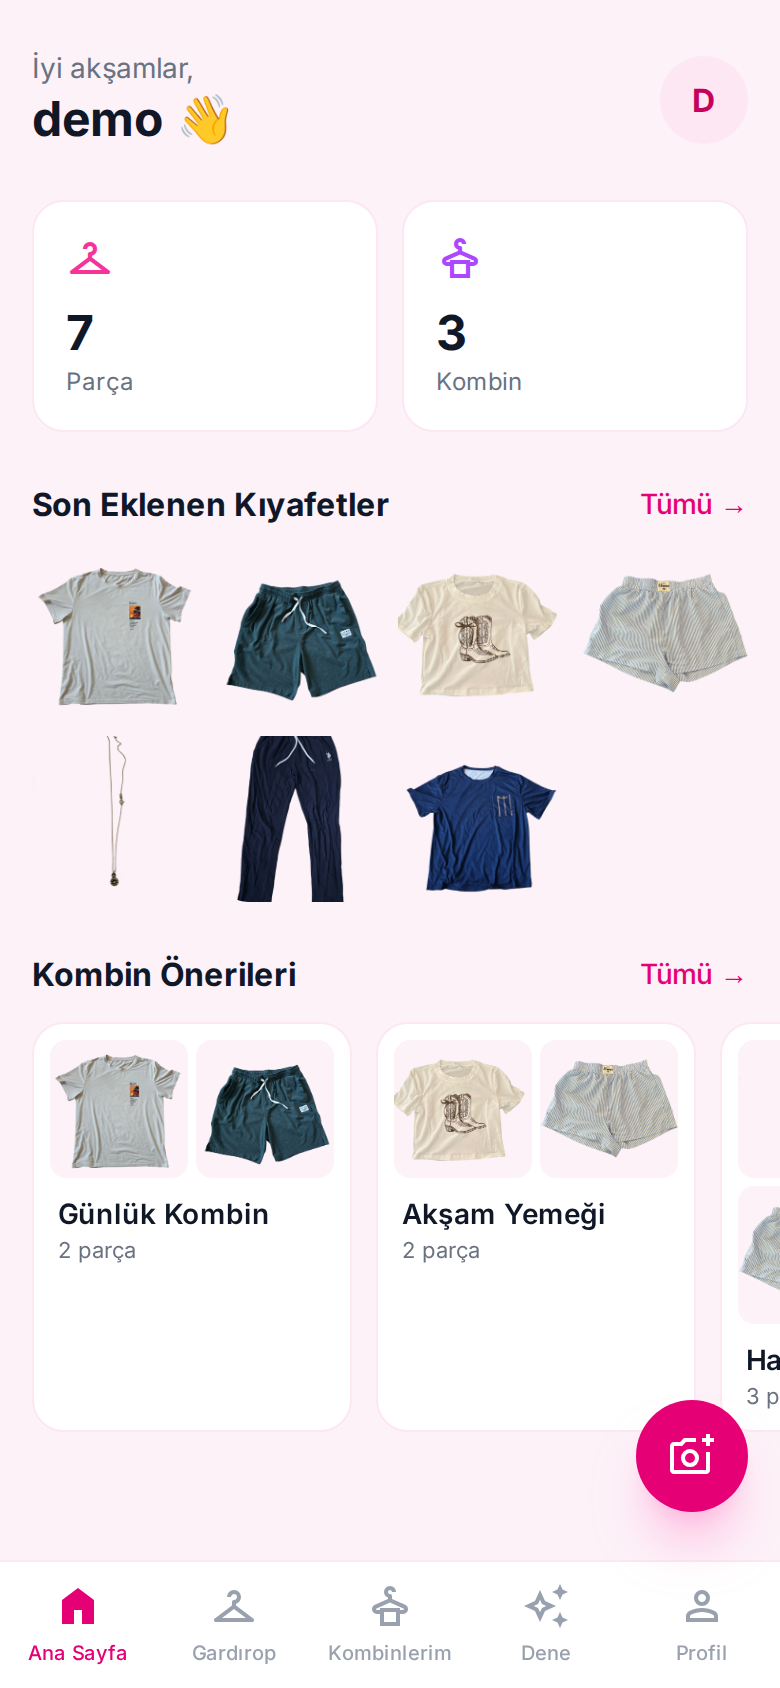
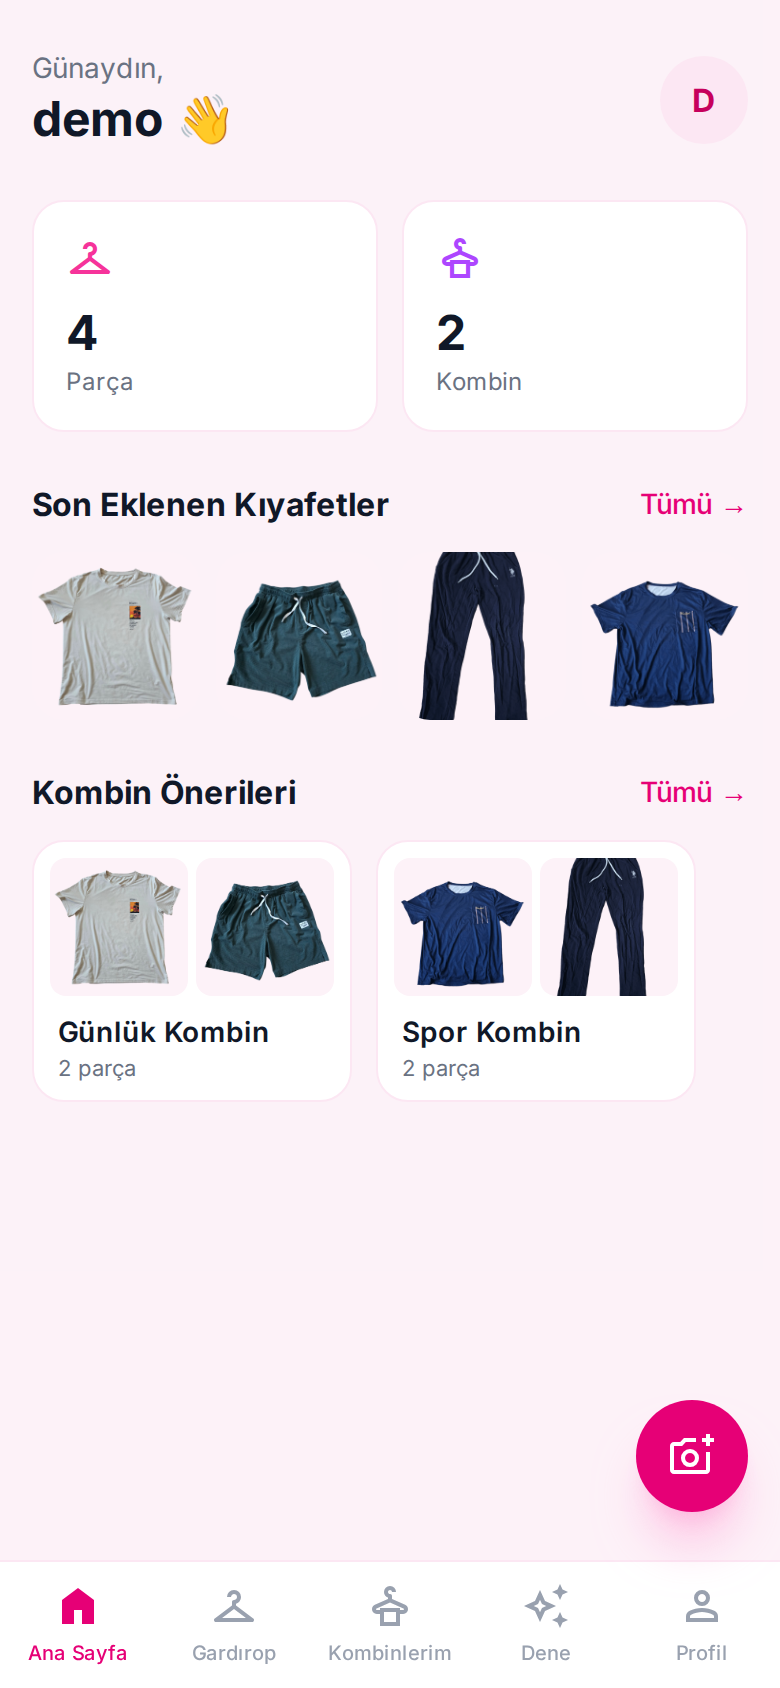
BettysWardrobe: switch demo visuals to the male wardrobe (owner's photo and clothes, per privacy request)

diff --git a/BettysWardrobe/README.md b/BettysWardrobe/README.md
@@ -68,7 +68,7 @@ All screenshots are from the live app in a mobile viewport (390 px) — the UI i
 <img src="images/03-dashboard.png" alt="Dashboard" width="390">
 
 - The home screen greets the user by time of day (*"İyi akşamlar, demo"* — good evening, demo).
-- Two stat cards show the wardrobe size: 7 *Parça* (pieces) and 3 *Kombin* (outfits).
+- Two stat cards show the wardrobe size: 4 *Parça* (pieces) and 2 *Kombin* (outfits).
 - *"Son Eklenen Kıyafetler"* (recently added clothes) is a grid of the latest items — all already cut out from their backgrounds.
 - *"Kombin Önerileri"* (outfit suggestions) is a horizontal row of saved outfit cards.
 - A floating camera button adds a new garment from anywhere; the bottom bar has five tabs: *Ana Sayfa* (home), *Gardırop* (wardrobe), *Kombinlerim* (my outfits), *Dene* (try on), *Profil* (profile).
@@ -77,7 +77,7 @@ All screenshots are from the live app in a mobile viewport (390 px) — the UI i
 
 <img src="images/04-wardrobe.png" alt="Wardrobe grid" width="390">
 
-- The full closet as a photo grid — *"7 / 7 parça"* means all 7 pieces are shown.
+- The full closet as a photo grid — *"4 / 4 parça"* means all 4 pieces are shown.
 - A search bar (*"Kıyafet ara..."* — search clothes) plus category chips with live counts: *Tümü* (all), *Aksesuar* (accessories), *Dış Giyim* (outerwear), *Üst* (tops)...
 - A filter drawer (top-right icon) adds tag and color filters.
 - Every card shows the AI-generated name and category — for example *"Krem Beach baskılı t-shirt"* (cream Beach-print t-shirt), *Üst* (top).
@@ -116,8 +116,8 @@ All screenshots are from the live app in a mobile viewport (390 px) — the UI i
 <img src="images/08-outfit-canvas.png" alt="Outfit canvas builder" width="390">
 
 - The signature builder: a 3:4 canvas where background-free garments behave like stickers.
-- Move each piece with one finger, pinch to resize, and reorder layers — here a necklace is layered over a crop t-shirt and striped shorts.
-- The outfit gets a name (*"Hafta Sonu Gezmesi"* — weekend outing) and an occasion (*"Gezme"* — going out).
+- Move each piece with one finger, pinch to resize, and reorder layers — here the cream Beach t-shirt is composed over petrol green shorts.
+- The outfit gets a name (*"Günlük Kombin"* — daily outfit) and an occasion (*"Günlük"* — casual).
 - *"Kullanılan Kıyafetler (3)"* (used clothes) lists the pieces with quick remove buttons and an *Ekle* (add) picker filtered by category.
 - *Güncelle* (update) saves the composition; the same screen edits existing outfits.
 
@@ -131,7 +131,7 @@ The flagship AI feature. You describe your plan in one sentence, and Claude buil
 
 - *"AI Kombin Önericisi"* (AI outfit recommender) — *"Aklındaki bir cümlede yaz"* (write what's on your mind in one sentence).
 - The gradient card names the model: **Claude Sonnet** analyzes your wardrobe and suggests personalized outfits.
-- Example prompt filled in: *"Hafta sonu arkadaşlarımla kahve içmeye çıkıyorum, rahat ama şık bir kombin önerir misin?"* — "I'm going out for coffee with friends this weekend, can you suggest a casual but stylish outfit?"
+- Example prompt filled in: *"Yarın arkadaşlarımla dışarı çıkıyorum, rahat ve sportif bir kombin önerir misin?"* — "I'm going out with friends tomorrow, can you suggest a casual, sporty outfit?"
 - An optional city field (here *Istanbul*) makes the suggestion weather-aware via OpenWeather.
 - Example sentences below (*"Pikniğe gidiyorum..."* — I'm going on a picnic...) help first-time users.
 
@@ -140,8 +140,8 @@ The flagship AI feature. You describe your plan in one sentence, and Claude buil
 <img src="images/10-ai-result.png" alt="AI recommender result with live weather" width="390">
 
 - The job runs asynchronously; a toast announces *"AI öneri hazır"* (AI suggestion ready).
-- A live weather chip shows the forecast used: **"Karaköy: 23°C, açık"** (23°C, clear).
-- The AI returns three named outfits — the first is *"Sahil Esintisi Kombin"* (Beach Breeze outfit) with full reasoning in Turkish: the cream tones match, and the stone necklace adds enough elegance for a coffee meetup.
+- A live weather chip shows the forecast used: **"Karaköy: 27°C, açık"** (27°C, clear).
+- The AI returns named outfits — the first is *"Sahil Enerjisi Kombini"* (Beach Energy outfit) with full reasoning in Turkish: the cream printed t-shirt and petrol green shorts make an eye-catching, fully casual-sporty look for the outdoors.
 - Every suggestion is composed only of real items from the user's wardrobe, shown as thumbnails.
 - A *"Bu Kombini Kaydet"* (save this outfit) button turns any suggestion into a saved outfit.
 
@@ -172,7 +172,7 @@ Pick a photo of yourself, pick garments, and the AI renders you wearing them.
 <img src="images/13-tryon-result.png" alt="Virtual try-on result" width="390">
 
 - The demo's cream Beach t-shirt is rendered onto the user's own mirror photo — pose, room and lighting are preserved.
-- A toast announces *"Sanal deneme hazır"* (virtual try-on ready); the balance has dropped to $1.96 (~49 tries).
+- A toast announces *"Sanal deneme hazır"* (virtual try-on ready); the balance has dropped to $1.92 (~48 tries).
 - *İndir* (download) saves the image; *Yeni Dene* (try again) starts a new run.
 - *"Geçmiş Denemeler"* (past tries) keeps a history as "photo + garment = result" rows with timestamps and delete.
 
@@ -180,9 +180,9 @@ Pick a photo of yourself, pick garments, and the AI renders you wearing them.
 
 <img src="images/14-stats.png" alt="Statistics" width="390">
 
-- *"İstatistikler"*: totals at the top — 7 *Kıyafet* (clothes), 3 *Kombin* (outfits), 0 *Favori* (favorites).
-- *"Kategori Dağılımı"* (category distribution) draws a bar per category: tops 3, bottoms 2, underwear 1, accessories 1.
-- *"AI Kullanımı (Bu Ay)"* (AI usage this month) counts tagging runs, recommendations and try-ons — and their real total cost ($0.049).
+- *"İstatistikler"*: totals at the top — 4 *Kıyafet* (clothes), 2 *Kombin* (outfits), 0 *Favori* (favorites).
+- *"Kategori Dağılımı"* (category distribution) draws a bar per category: tops 2, bottoms 2.
+- *"AI Kullanımı (Bu Ay)"* (AI usage this month) counts tagging runs, recommendations and try-ons — and their real total cost ($0.097).
 - The cost figure comes straight from the per-call credit accounting in the backend.
 
 ## Activity

diff --git a/BettysWardrobe/README.tr.md b/BettysWardrobe/README.tr.md
@@ -68,7 +68,7 @@ Tüm ekran görüntüleri canlı uygulamadan, mobil görünümde (390 px) alınm
 <img src="images/03-dashboard.png" alt="Ana sayfa" width="390">
 
 - Ana ekran kullanıcıyı günün saatine göre selamlar (*"İyi akşamlar, demo"*).
-- İki istatistik kartı gardırobun boyutunu gösterir: 7 *Parça* ve 3 *Kombin*.
+- İki istatistik kartı gardırobun boyutunu gösterir: 4 *Parça* ve 2 *Kombin*.
 - *"Son Eklenen Kıyafetler"* en yeni parçaların ızgarasıdır — hepsinin arka planı çoktan silinmiştir.
 - *"Kombin Önerileri"* kayıtlı kombin kartlarının yatay kaydırılan sırasıdır.
 - Yüzen kamera düğmesi her yerden yeni kıyafet ekler; alt çubukta beş sekme vardır: *Ana Sayfa*, *Gardırop*, *Kombinlerim*, *Dene*, *Profil*.
@@ -77,7 +77,7 @@ Tüm ekran görüntüleri canlı uygulamadan, mobil görünümde (390 px) alınm
 
 <img src="images/04-wardrobe.png" alt="Gardırop ızgarası" width="390">
 
-- Tüm dolap fotoğraf ızgarası olarak — *"7 / 7 parça"* tüm parçaların listelendiğini gösterir.
+- Tüm dolap fotoğraf ızgarası olarak — *"4 / 4 parça"* tüm parçaların listelendiğini gösterir.
 - Arama çubuğu (*"Kıyafet ara..."*) ve canlı sayaçlı kategori çipleri: *Tümü*, *Aksesuar*, *Dış Giyim*, *Üst*...
 - Sağ üstteki filtre çekmecesi etiket ve renk filtreleri ekler.
 - Her kart AI'nın ürettiği ismi ve kategoriyi gösterir — örneğin *"Krem Beach baskılı t-shirt"*, *Üst*.
@@ -116,8 +116,8 @@ Tüm ekran görüntüleri canlı uygulamadan, mobil görünümde (390 px) alınm
 <img src="images/08-outfit-canvas.png" alt="Kombin tuvali editörü" width="390">
 
 - İmza özellik: arka planı silinmiş kıyafetlerin sticker gibi davrandığı 3:4 oranında bir tuval.
-- Her parça tek parmakla taşınır, iki parmakla boyutlandırılır, katman sırası değiştirilir — burada kolye, crop tişört ve çizgili şortun üzerine yerleştirilmiş.
-- Kombine bir isim (*"Hafta Sonu Gezmesi"*) ve etkinlik (*"Gezme"*) verilir.
+- Her parça tek parmakla taşınır, iki parmakla boyutlandırılır, katman sırası değiştirilir — burada krem Beach baskılı tişört, petrol yeşili şortun üzerine yerleştirilmiş.
+- Kombine bir isim (*"Günlük Kombin"*) ve etkinlik (*"Günlük"*) verilir.
 - *"Kullanılan Kıyafetler (3)"* parçaları hızlı silme düğmeleriyle listeler; *Ekle* kategori filtreli seçiciyi açar.
 - *Güncelle* kompozisyonu kaydeder; aynı ekran mevcut kombinleri de düzenler.
 
@@ -131,7 +131,7 @@ Uygulamanın amiral gemisi AI özelliği. Planınızı tek cümleyle anlatırsı
 
 - *"AI Kombin Önericisi"* — *"Aklındaki bir cümlede yaz"*.
 - Gradyan kart modeli belirtir: **Claude Sonnet** gardırobunuzu analiz edip size özel kombin önerir.
-- Örnek istem: *"Hafta sonu arkadaşlarımla kahve içmeye çıkıyorum, rahat ama şık bir kombin önerir misin?"*
+- Örnek istem: *"Yarın arkadaşlarımla dışarı çıkıyorum, rahat ve sportif bir kombin önerir misin?"*
 - İsteğe bağlı şehir alanı (burada *Istanbul*) öneriyi OpenWeather üzerinden hava durumuna duyarlı hale getirir.
 - Alttaki örnek cümleler (*"Pikniğe gidiyorum..."*) ilk kez kullananlara yol gösterir.
 
@@ -140,8 +140,8 @@ Uygulamanın amiral gemisi AI özelliği. Planınızı tek cümleyle anlatırsı
 <img src="images/10-ai-result.png" alt="Canlı hava durumuyla AI önerici sonucu" width="390">
 
 - İş asenkron çalışır; *"AI öneri hazır"* bildirimi düşer.
-- Canlı hava durumu çipi kullanılan tahmini gösterir: **"Karaköy: 23°C, açık"**.
-- AI üç isimli kombin döndürür — ilki *"Sahil Esintisi Kombin"*, tam gerekçesiyle: krem tonların uyumu ve taşlı kolyenin kahve buluşması için yeterli zarafeti sağlaması.
+- Canlı hava durumu çipi kullanılan tahmini gösterir: **"Karaköy: 27°C, açık"**.
+- AI isimli kombinler döndürür — ilki *"Sahil Enerjisi Kombini"*, tam gerekçesiyle: krem baskılı tişört ile petrol yeşili şortun renk kontrastı, açık hava için rahat ve sportif bir görünüm oluşturuyor.
 - Her öneri yalnızca kullanıcının gardırobundaki gerçek parçalardan oluşur ve küçük görsellerle gösterilir.
 - *"Bu Kombini Kaydet"* düğmesi herhangi bir öneriyi kayıtlı kombine dönüştürür.
 
@@ -172,7 +172,7 @@ Kendi fotoğrafınızı seçin, kıyafetleri seçin; AI o kıyafetleri üzeriniz
 <img src="images/13-tryon-result.png" alt="Sanal deneme sonucu" width="390">
 
 - Demo hesabındaki krem Beach tişört, kullanıcının kendi ayna fotoğrafına giydirilmiş — poz, oda ve ışık korunmuş.
-- *"Sanal deneme hazır"* bildirimi düşer; bakiye $1.96'ya inmiştir (~49 hak).
+- *"Sanal deneme hazır"* bildirimi düşer; bakiye $1.92'ye inmiştir (~48 hak).
 - *İndir* görseli kaydeder; *Yeni Dene* yeni bir deneme başlatır.
 - *"Geçmiş Denemeler"* "fotoğraf + kıyafet = sonuç" satırlarıyla, zaman damgalı ve silinebilir bir geçmiş tutar.
 
@@ -180,9 +180,9 @@ Kendi fotoğrafınızı seçin, kıyafetleri seçin; AI o kıyafetleri üzeriniz
 
 <img src="images/14-stats.png" alt="İstatistikler" width="390">
 
-- *"İstatistikler"*: üstte toplamlar — 7 *Kıyafet*, 3 *Kombin*, 0 *Favori*.
-- *"Kategori Dağılımı"* kategori başına bir çubuk çizer: Üst 3, Alt 2, İç Giyim 1, Aksesuar 1.
-- *"AI Kullanımı (Bu Ay)"* etiketleme, öneri ve sanal deneme sayılarını — ve gerçek toplam maliyeti ($0.049) gösterir.
+- *"İstatistikler"*: üstte toplamlar — 4 *Kıyafet*, 2 *Kombin*, 0 *Favori*.
+- *"Kategori Dağılımı"* kategori başına bir çubuk çizer: Üst 2, Alt 2.
+- *"AI Kullanımı (Bu Ay)"* etiketleme, öneri ve sanal deneme sayılarını — ve gerçek toplam maliyeti ($0.097) gösterir.
 - Maliyet rakamı doğrudan backend'deki çağrı başına kredi muhasebesinden gelir.
 
 ## Hareketler
